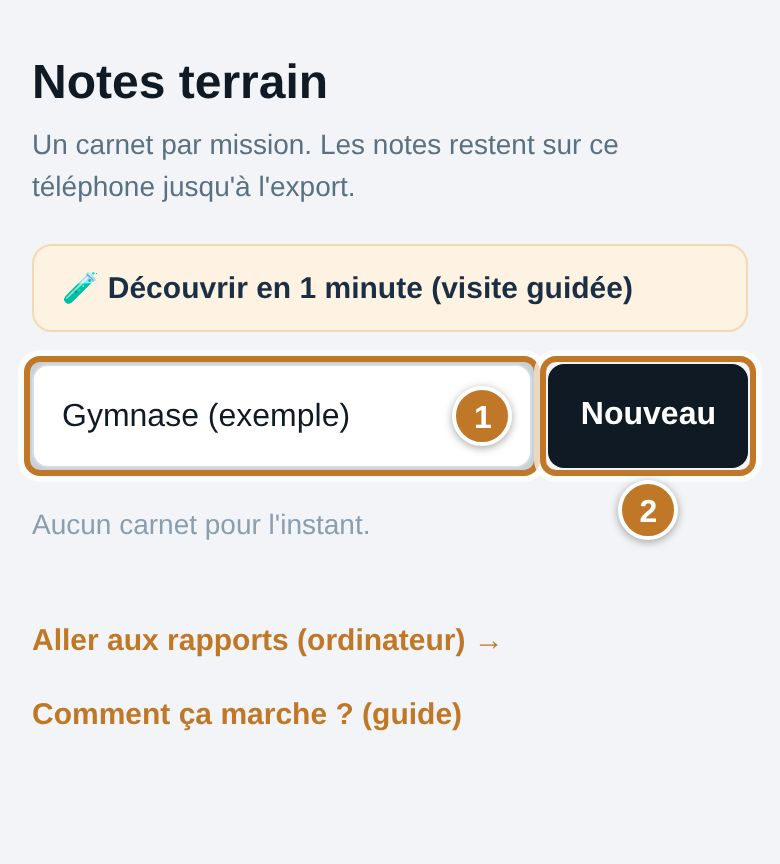
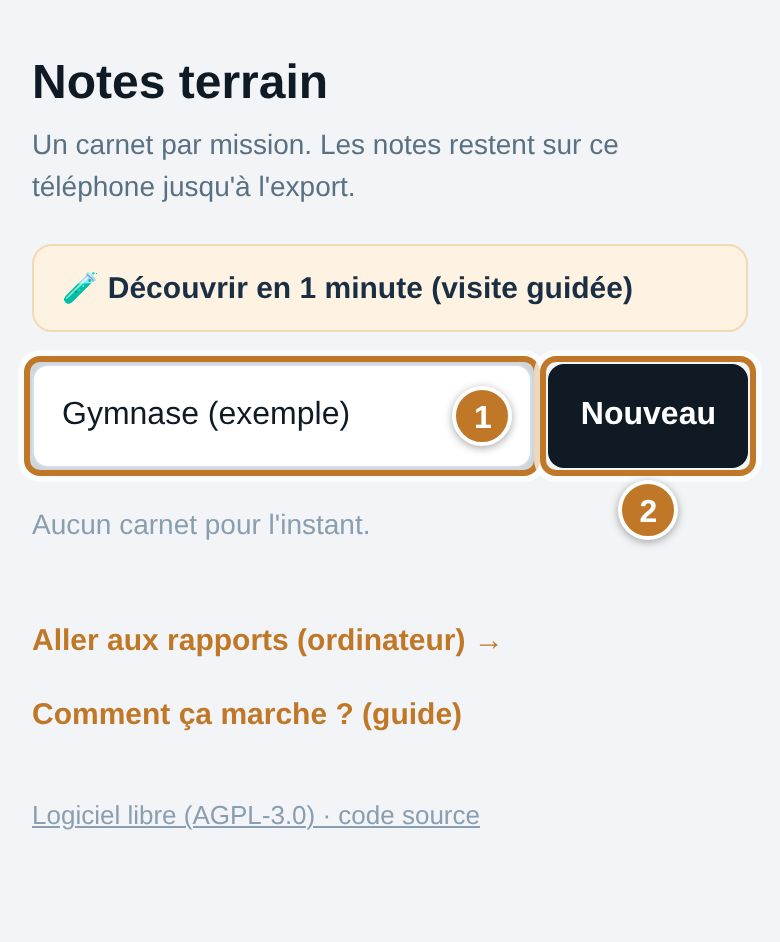
Licence libre AGPL-3.0-or-later et lien vers le code source
- LICENSE : texte GNU AGPL v3 (référence SPDX ; gnu.org inaccessible
  depuis la session, contenu identique, paragraphes sur une ligne).
- package.json : license AGPL-3.0-or-later.
- Lien « Logiciel libre (AGPL-3.0) · code source » dans le menu de gauche,
  Notes terrain et le Guide (article 13 de la licence).
- README, AGENTS.md, CHANGELOG, decisions.md ; contraintes.md : titulaire
  des droits d'auteur à confirmer avant toute mention Copyright.
- Captures du guide régénérées.

Claude-Session: https://claude.ai/code/session_011V4VNhkAppRj6n6sbc18iJ

diff --git a/src/pages/NotesTerrain.tsx b/src/pages/NotesTerrain.tsx
@@ -102,6 +102,8 @@ function ListeCarnets({ carnets, onOpen, onCreate, onDelete, onBureau, onGuide }
 
       <button onClick={onBureau} style={{ ...s.link, marginTop: 32 }}>Aller aux rapports (ordinateur) →</button>
       <button onClick={onGuide} style={{ ...s.link, display: 'block' }}>Comment ça marche ? (guide)</button>
+      {/* Logiciel libre AGPL-3.0 : lien vers le code source (article 13 de la licence) */}
+      <a href="https://github.com/sit-pmo/dronereport" target="_blank" rel="noreferrer" style={s.source}>Logiciel libre (AGPL-3.0) · code source</a>
     </main>
   )
 }
@@ -239,6 +241,7 @@ const s: Record<string, React.CSSProperties> = {
   actionRow: { display: 'flex', gap: 8, marginBottom: 20 },
   btnPrimary: { background: '#0f1a25', color: '#fff', border: 'none', borderRadius: 8, padding: '12px 16px', fontSize: 16, fontWeight: 600, minHeight: 52, cursor: 'pointer', fontFamily: 'inherit' },
   btnSecondary: { background: '#fff', color: '#0f1a25', border: '1.5px solid #c9d3dc', borderRadius: 8, padding: '10px 14px', fontSize: 15, fontWeight: 600, minHeight: 48, cursor: 'pointer', fontFamily: 'inherit' },
+  source: { display: 'block', marginTop: 24, fontSize: 13, color: '#8a9eb0' },
   visiteBtn: {
     display: 'block', width: '100%', margin: '0 0 16px', padding: '12px 14px', borderRadius: 10,
     background: '#fef3e2', border: '1.5px solid #f3d9b1', color: '#1a2e44', fontSize: 15, fontWeight: 600,

diff --git a/src/components/AppLayout.tsx b/src/components/AppLayout.tsx
@@ -79,6 +79,10 @@ export default function AppLayout({ children }: { children: ReactNode }) {
 
         <div style={sb.footerNote}>
           Données stockées dans ce navigateur uniquement.
+          {/* Logiciel libre AGPL-3.0 : lien vers le code source (article 13 de la licence) */}
+          <a href="https://github.com/sit-pmo/dronereport" target="_blank" rel="noreferrer" style={sb.sourceLink}>
+            Logiciel libre (AGPL-3.0) · code source
+          </a>
         </div>
       </aside>
 
@@ -88,6 +92,7 @@ export default function AppLayout({ children }: { children: ReactNode }) {
 }
 
 const sb: Record<string, React.CSSProperties> = {
+  sourceLink: { display: 'block', marginTop: 6, color: 'rgba(255,255,255,0.55)', textDecoration: 'underline' },
   guideLink: {
     margin: '0 10px 8px', padding: '9px 10px', borderRadius: 8, border: '1px solid rgba(255,255,255,0.12)',
     background: 'transparent', color: 'rgba(255,255,255,0.75)', fontSize: 13.5, textAlign: 'left',

diff --git a/src/pages/Guide.tsx b/src/pages/Guide.tsx
@@ -98,6 +98,11 @@ export default function Guide() {
           {aidesReaffichees ? 'Aides réaffichées ✓' : 'Réafficher les aides'}
         </button>
       </p>
+      {/* Logiciel libre AGPL-3.0 : lien vers le code source (article 13 de la licence) */}
+      <p style={s.foot}>
+        DroneReport est un logiciel libre, sous licence AGPL-3.0 :{' '}
+        <a href="https://github.com/sit-pmo/dronereport" target="_blank" rel="noreferrer" style={{ color: '#c07828' }}>code source</a>.
+      </p>
     </main>
   )
 }

diff --git a/decisions.md b/decisions.md
@@ -20,3 +20,4 @@
 2026-11-27 | La décision « Visite guidée limitée à l'ordinateur » (26/11) est remplacée : une visite téléphone existe pour la prise de notes | Demande d'une version mobile ; la visite ordinateur reste la seule à suivre le rapport jusqu'au PDF
 2026-11-27 | Projet SaaS abandonné : ce dépôt devient LE projet DroneReport, toutes les mentions « édition collectivité » sont retirées de l'appli et des documents | Plus de version concurrente à distinguer
 2026-11-27 | Nom de la base IndexedDB `dronereport-collectivite` conservé ; marqueurs .json renommés en `dronereport/…` avec lecture des anciens | Renommer la base ferait disparaître les rapports et carnets déjà enregistrés ; les fichiers déjà exportés doivent rester importables
+2026-11-27 | DroneReport publié en logiciel libre sous AGPL-3.0-or-later plutôt que vendu | Copyleft fort, y compris en service en ligne : personne ne peut en refaire un produit fermé ; licence de la liste autorisée aux administrations (décret 2021-1559)

diff --git a/contraintes.md b/contraintes.md
@@ -17,5 +17,10 @@
 
 ## À trancher
 
+- [ ] Titulaire des droits d'auteur à inscrire (en-tête de licence, README) : le code reprend
+  l'ancienne version SaaS (dépôt privé personnel) ; PETR/SyMONT, auteur, ou les deux ? À confirmer
+  avant d'ajouter une mention « Copyright ».
+- [ ] Texte de `LICENSE` repris de la liste SPDX (gnu.org bloqué depuis la session) : contenu identique,
+  paragraphes sur une ligne. Remplaçable par https://www.gnu.org/licenses/agpl-3.0.txt si on préfère.
 - [ ] Les notes du téléphone ne se rattachent qu'au parcours « sans ortho » (Photos terrain). Avec une ortho, pas de rattachement possible : voulu ou à ajouter ?
 - [ ] Numéro de version : `package.json` indique 0.1.0, le CHANGELOG et AGENTS.md parlent de 1.0.0.

diff --git a/AGENTS.md b/AGENTS.md
@@ -1,6 +1,7 @@
 # DroneReport
 
-Outil interne du SIT (PETR Marennes Oléron / SyMONT) : notes terrain sur téléphone et rapports PDF d'inspection de toiture par drone. Dépôt public : aucun secret, aucune donnée.
+Logiciel libre (AGPL-3.0-or-later, fichier `LICENSE`) porté par le SIT (PETR Marennes Oléron / SyMONT) : notes terrain sur téléphone et rapports PDF d'inspection de toiture par drone. Dépôt public : aucun secret, aucune donnée.
+L'appli affiche un lien vers le code source (menu de gauche, Notes terrain, Guide) : le garder, l'AGPL le demande pour une appli en ligne.
 
 ## Design
 

diff --git a/README.md b/README.md
@@ -6,6 +6,11 @@ rapport PDF au bureau. Sans paiement, sans compte et sans serveur.
 
 En ligne : https://sit-pmo.github.io/dronereport/
 
+Logiciel libre sous licence **GNU AGPL v3.0 ou ultérieure** (fichier `LICENSE`).
+Vous pouvez l'utiliser, le modifier et le redistribuer ; toute version modifiée,
+y compris mise en ligne comme service, doit être publiée sous la même licence,
+avec son code source.
+
 ## Principe : les données restent sur le poste
 
 - Rapports, photos et notes sont stockés dans le navigateur (IndexedDB).

diff --git a/CHANGELOG.md b/CHANGELOG.md
@@ -2,6 +2,10 @@
 
 ## [Non publié]
 
+### Ajouté
+- Licence libre GNU AGPL v3.0 ou ultérieure (`LICENSE`) ; lien « code source » dans l'appli
+  (menu de gauche, Notes terrain, Guide).
+
 ### Changé
 - Fin de « l'édition collectivité » : l'application s'appelle simplement DroneReport (menu, accueil,
   titre, appli installée, pied de page du PDF, paquet npm). Le projet SaaS est abandonné.
